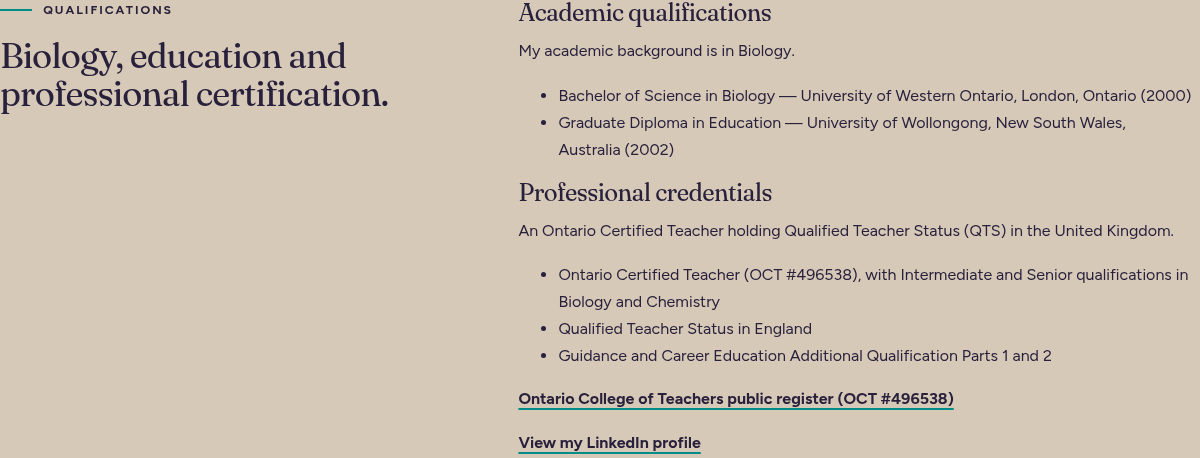
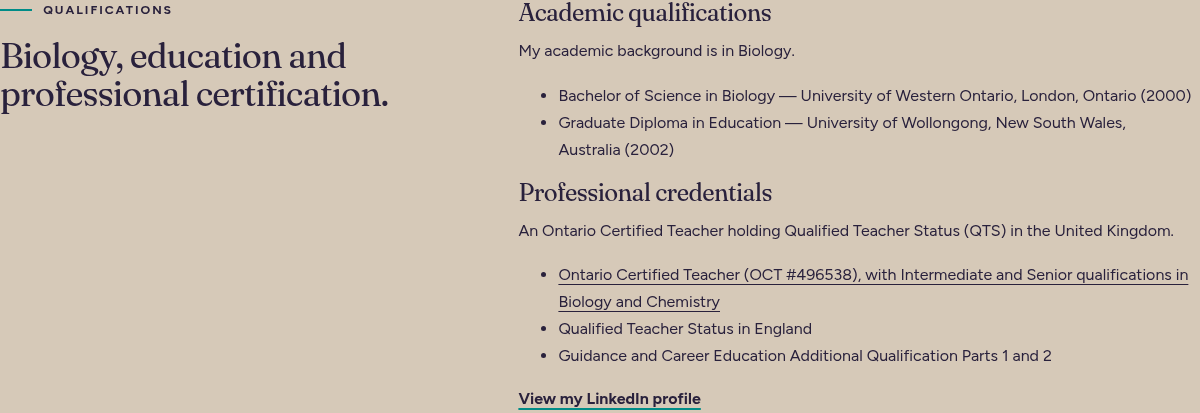
Link the OCT credential inline without repeating its registration number

diff --git a/templates/pages/about-amanda.html b/templates/pages/about-amanda.html
@@ -1,1 +1,1 @@
-<section class="page-hero"><div class="wrap"><a class="back-link" href="/">%%COPY:about-amanda-000%%</a><p class="eyebrow">%%COPY:about-amanda-001%%</p><h1>%%COPY:about-amanda-002%%</h1><p class="lead">%%COPY:about-amanda-003%%</p></div></section><section class="section "><div class="wrap"><div class="amanda-preview"><div><figure class="portrait-placeholder" role="img" aria-label="Amanda D’Souza monogram"><div class="portrait-mark">A</div><figcaption>Amanda D’Souza</figcaption></figure></div><div><p class="eyebrow">%%COPY:about-amanda-004%%</p><h2>%%COPY:about-amanda-021%%</h2><p>%%COPY:about-amanda-005%%</p><p>%%COPY:about-amanda-018%%</p><h3>%%COPY:about-amanda-019%%</h3><p>%%COPY:about-amanda-020%%</p><a class="text-link" href="/subjects-programmes/">%%COPY:about-amanda-015%%</a></div></div></div></section><section class="section taupe"><div class="wrap"><div class="credentials-panel"><div><p class="eyebrow">%%COPY:about-amanda-006%%</p><h2>%%COPY:about-amanda-007%%</h2></div><div><h3>%%COPY:about-amanda-022%%</h3><p>%%COPY:about-amanda-008%%</p><ul><li>%%COPY:about-amanda-023%%</li><li>%%COPY:about-amanda-024%%</li></ul><h3>%%COPY:about-amanda-025%%</h3><ul><li>%%COPY:about-amanda-026%%</li><li>%%COPY:about-amanda-027%%</li><li>%%COPY:about-amanda-028%%</li></ul><p><a class="text-link" href="https://apps.oct.ca/FindATeacher/memberdetail?id=496538" rel="noopener noreferrer" target="_blank">Ontario College of Teachers public register (OCT #496538)</a></p><p><a class="text-link" href="%%VERIFY_URL%%" rel="noopener noreferrer" target="_blank">%%COPY:about-amanda-012%%</a></p></div></div></div></section><section class="section dark"><div class="wrap"><div class="reading-column"><h2>%%COPY:about-amanda-016%%</h2><p>%%COPY:about-amanda-017%%</p><p class="eyebrow">%%COPY:about-amanda-009%%</p><p>%%COPY:about-amanda-010%%</p><p>%%COPY:about-amanda-011%%</p><p>%%COPY:about-amanda-029%%</p></div></div></section>%%COMPONENT:cta%%<nav class="page-navigation" aria-label="Page navigation"><a href="/about-auxesis/">%%COPY:about-amanda-013%%</a><a href="/how-tutoring-works/">%%COPY:about-amanda-014%%</a></nav>
+<section class="page-hero"><div class="wrap"><a class="back-link" href="/">%%COPY:about-amanda-000%%</a><p class="eyebrow">%%COPY:about-amanda-001%%</p><h1>%%COPY:about-amanda-002%%</h1><p class="lead">%%COPY:about-amanda-003%%</p></div></section><section class="section "><div class="wrap"><div class="amanda-preview"><div><figure class="portrait-placeholder" role="img" aria-label="Amanda D’Souza monogram"><div class="portrait-mark">A</div><figcaption>Amanda D’Souza</figcaption></figure></div><div><p class="eyebrow">%%COPY:about-amanda-004%%</p><h2>%%COPY:about-amanda-021%%</h2><p>%%COPY:about-amanda-005%%</p><p>%%COPY:about-amanda-018%%</p><h3>%%COPY:about-amanda-019%%</h3><p>%%COPY:about-amanda-020%%</p><a class="text-link" href="/subjects-programmes/">%%COPY:about-amanda-015%%</a></div></div></div></section><section class="section taupe"><div class="wrap"><div class="credentials-panel"><div><p class="eyebrow">%%COPY:about-amanda-006%%</p><h2>%%COPY:about-amanda-007%%</h2></div><div><h3>%%COPY:about-amanda-022%%</h3><p>%%COPY:about-amanda-008%%</p><ul><li>%%COPY:about-amanda-023%%</li><li>%%COPY:about-amanda-024%%</li></ul><h3>%%COPY:about-amanda-025%%</h3><ul><li><a href="https://apps.oct.ca/FindATeacher/memberdetail?id=496538" rel="noopener noreferrer" target="_blank">%%COPY:about-amanda-026%%</a></li><li>%%COPY:about-amanda-027%%</li><li>%%COPY:about-amanda-028%%</li></ul><p><a class="text-link" href="%%VERIFY_URL%%" rel="noopener noreferrer" target="_blank">%%COPY:about-amanda-012%%</a></p></div></div></div></section><section class="section dark"><div class="wrap"><div class="reading-column"><h2>%%COPY:about-amanda-016%%</h2><p>%%COPY:about-amanda-017%%</p><p class="eyebrow">%%COPY:about-amanda-009%%</p><p>%%COPY:about-amanda-010%%</p><p>%%COPY:about-amanda-011%%</p><p>%%COPY:about-amanda-029%%</p></div></div></section>%%COMPONENT:cta%%<nav class="page-navigation" aria-label="Page navigation"><a href="/about-auxesis/">%%COPY:about-amanda-013%%</a><a href="/how-tutoring-works/">%%COPY:about-amanda-014%%</a></nav>
